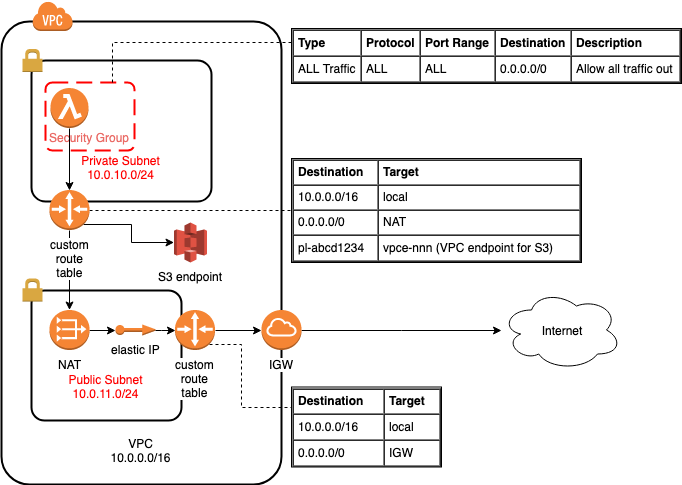
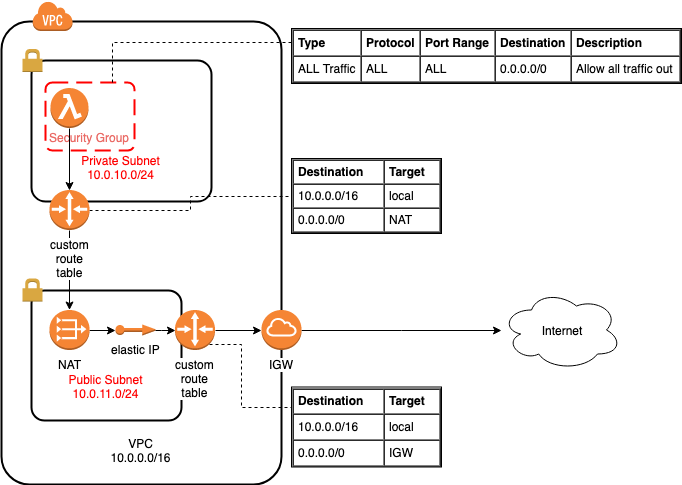
no need for s3 vpc endpoint (#9)

Changed region(s): [[0.4003, 0.3093, 0.8622, 0.5567], [0.2155, 0.4639, 0.3387, 0.5876]]

diff --git a/README.md b/README.md
@@ -123,9 +123,7 @@ Not all variables are required by all lambdas, as described below:
 Setup a custom VPC if you want a fixed IP address.
 
 The approach here is to run the Lambdas in a private subnet and route via a NAT
-in a public subnet which has an EIP (fixed IP address). Note that since the
-Lambda is running in a private subnet, the private subnet needs to be given
-access to an S3 service endpoint so that the Lambda can access the S3 bucket.
+in a public subnet which has an EIP (fixed IP address).
 
 ![Custom VPC](diagrams/vpc.png)
 
